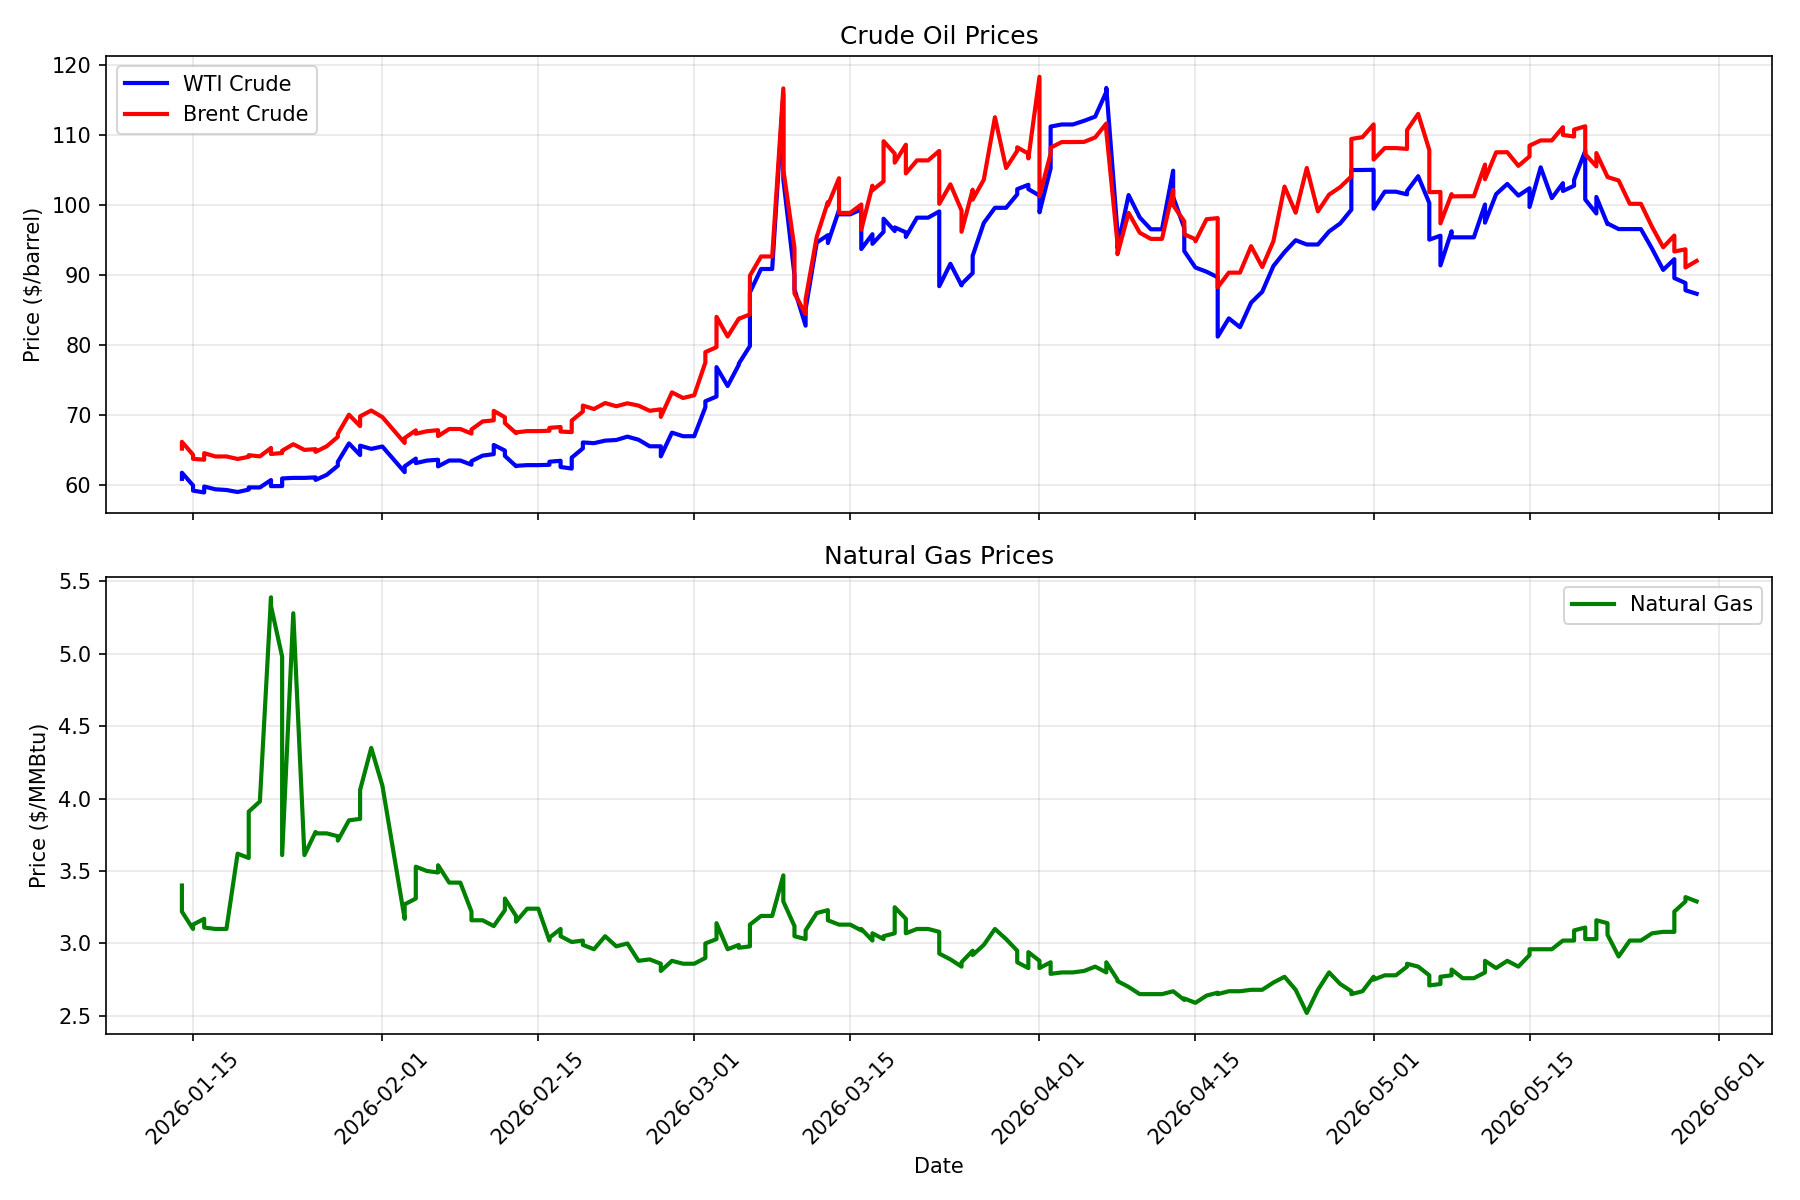
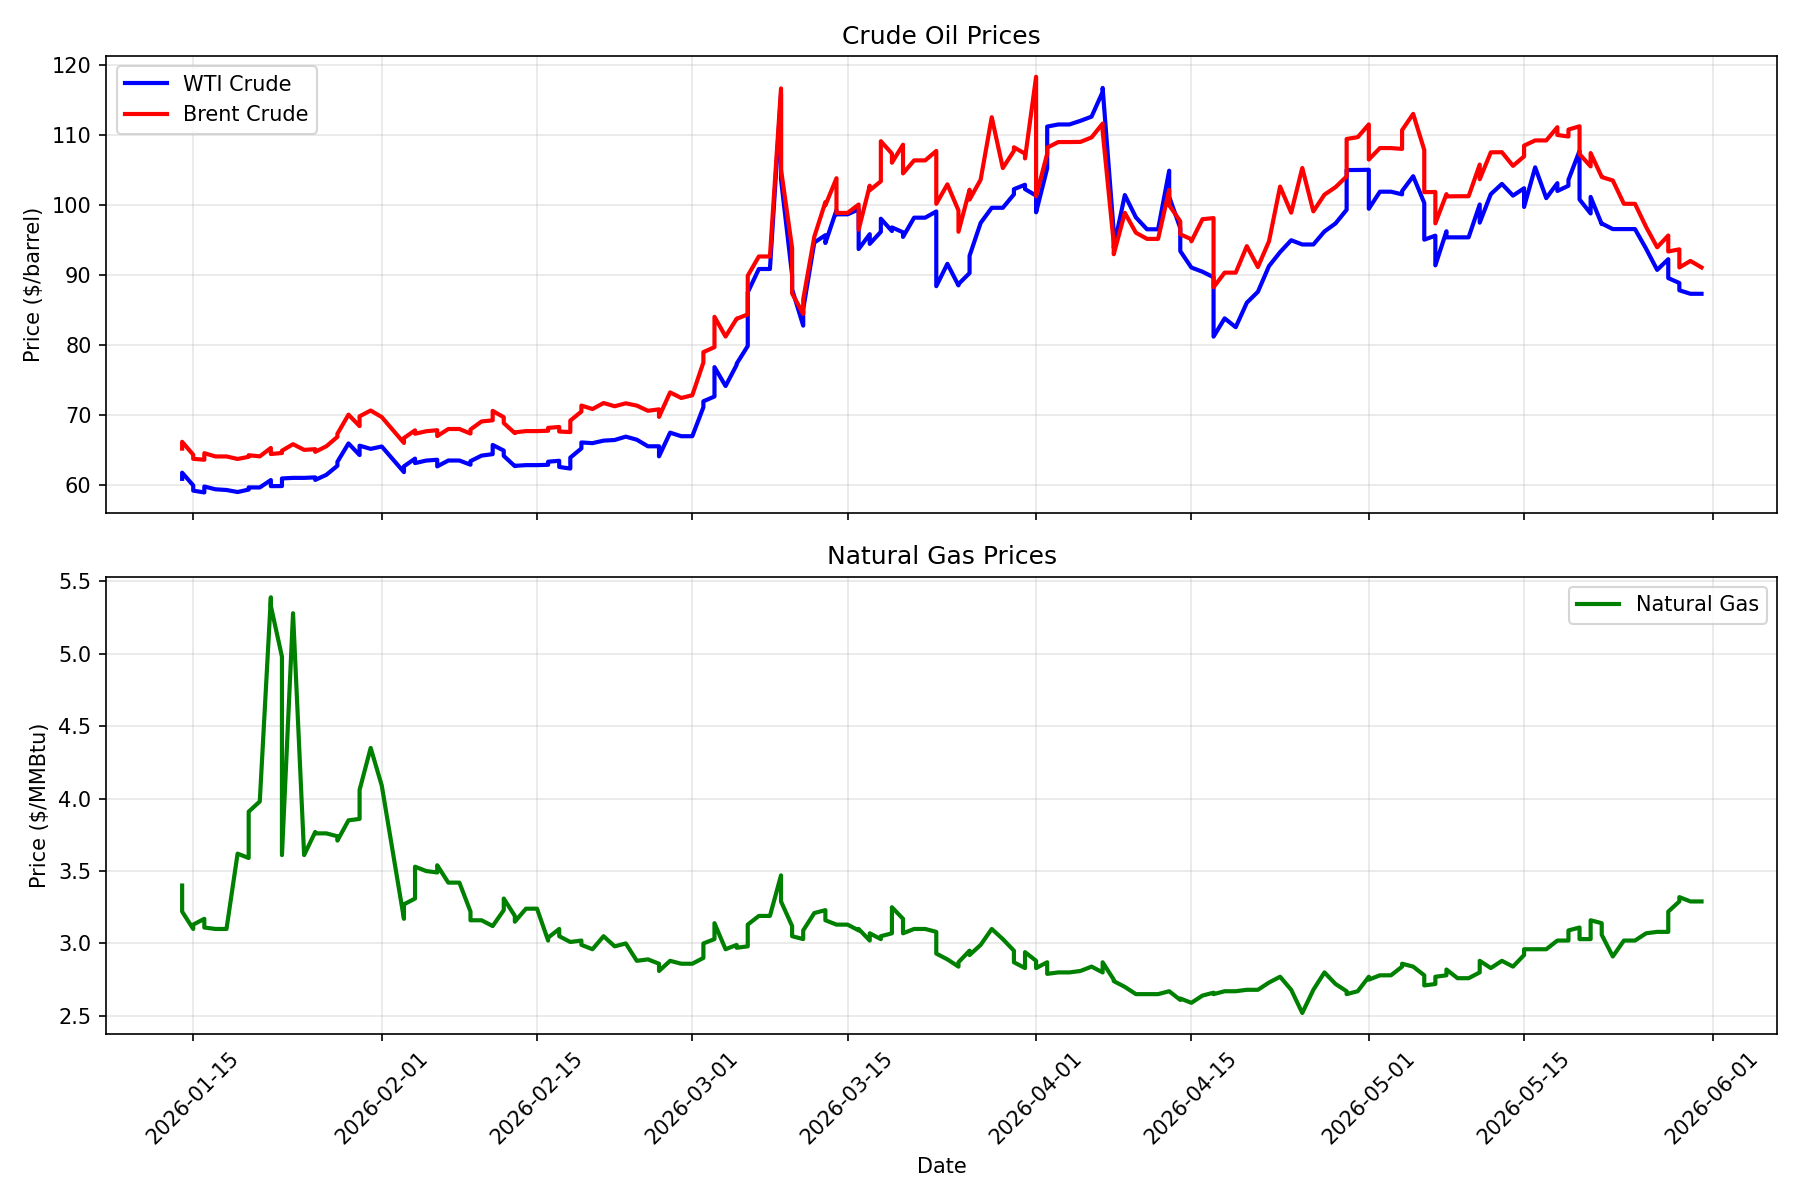
Daily price update: 2026-05-31

diff --git a/README.md b/README.md
@@ -2,16 +2,16 @@
 
 Automated daily tracking of chemical commodity prices and chemical company stocks.
 
-## Latest Prices (Updated: 2026-05-30)
+## Latest Prices (Updated: 2026-05-31)
 
 ### Energy Commodities
 
 | Commodity | Price | Change (24h) | Unit |
 |-----------|-------|--------------|------|
-| WTI Crude Oil | $87.36 | -1.54 (-1.73%) | $/barrel |
-| Brent Crude Oil | $92.05 | -1.66 (-1.77%) | $/barrel |
-| Natural Gas | $3.29 | +0.00 (+0.15%) | $/MMBtu |
-| Heating Oil | $3.54 | -0.08 (-2.25%) | $/gallon |
+| WTI Crude Oil | $87.36 | +0.00 (+0.00%) | $/barrel |
+| Brent Crude Oil | $91.12 | +0.00 (+0.00%) | $/barrel |
+| Natural Gas | $3.29 | +0.00 (+0.00%) | $/MMBtu |
+| Heating Oil | $3.49 | +0.00 (+0.00%) | $/gallon |
 
 ### Chemical Company Stocks
 

diff --git a/logs/update_log.md b/logs/update_log.md
@@ -233,3 +233,4 @@ Daily updates to the chemical engineering data repository.
 - **2026-05-29 00:00:06**: Updated 4 energy prices, 8 stocks, 0 FRED series
 - **2026-05-29 15:02:28**: Updated 4 energy prices, 8 stocks, 0 FRED series
 - **2026-05-30 14:30:09**: Updated 4 energy prices, 8 stocks, 0 FRED series
+- **2026-05-31 14:31:02**: Updated 4 energy prices, 8 stocks, 0 FRED series
